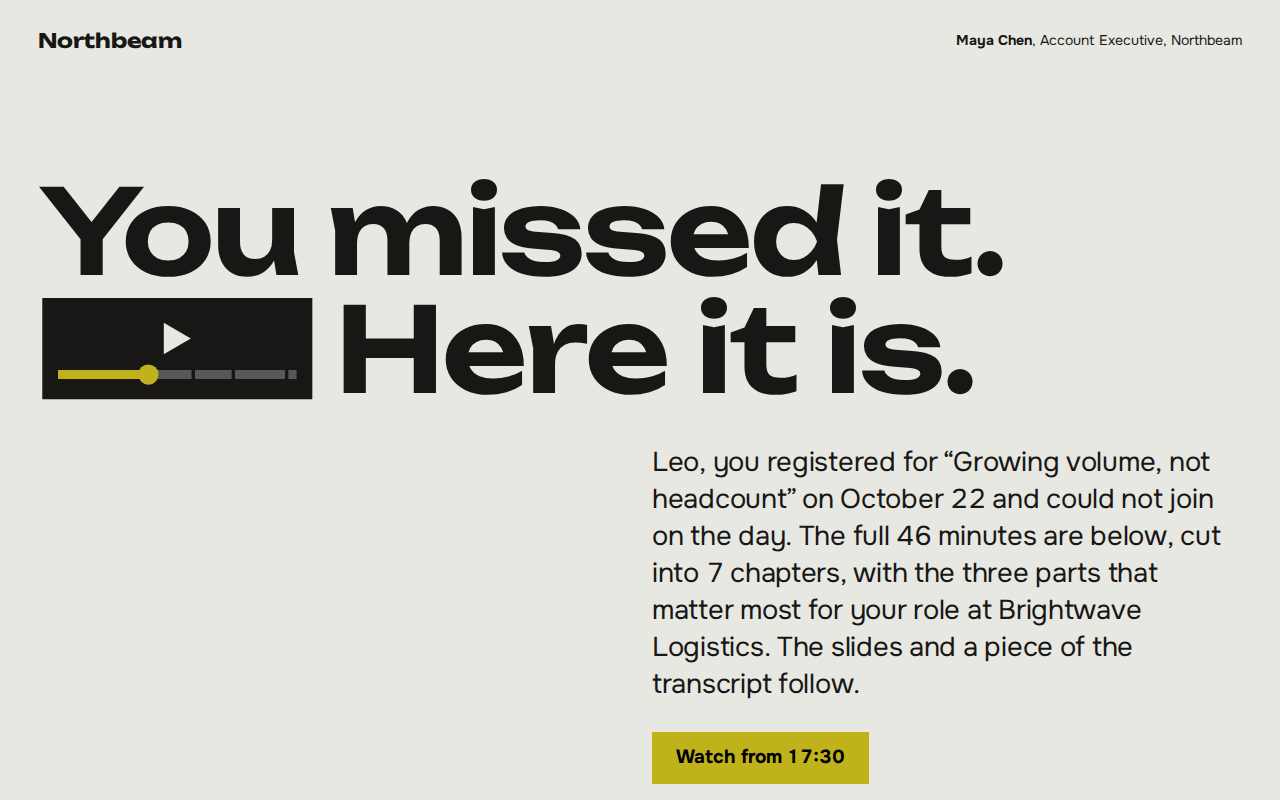
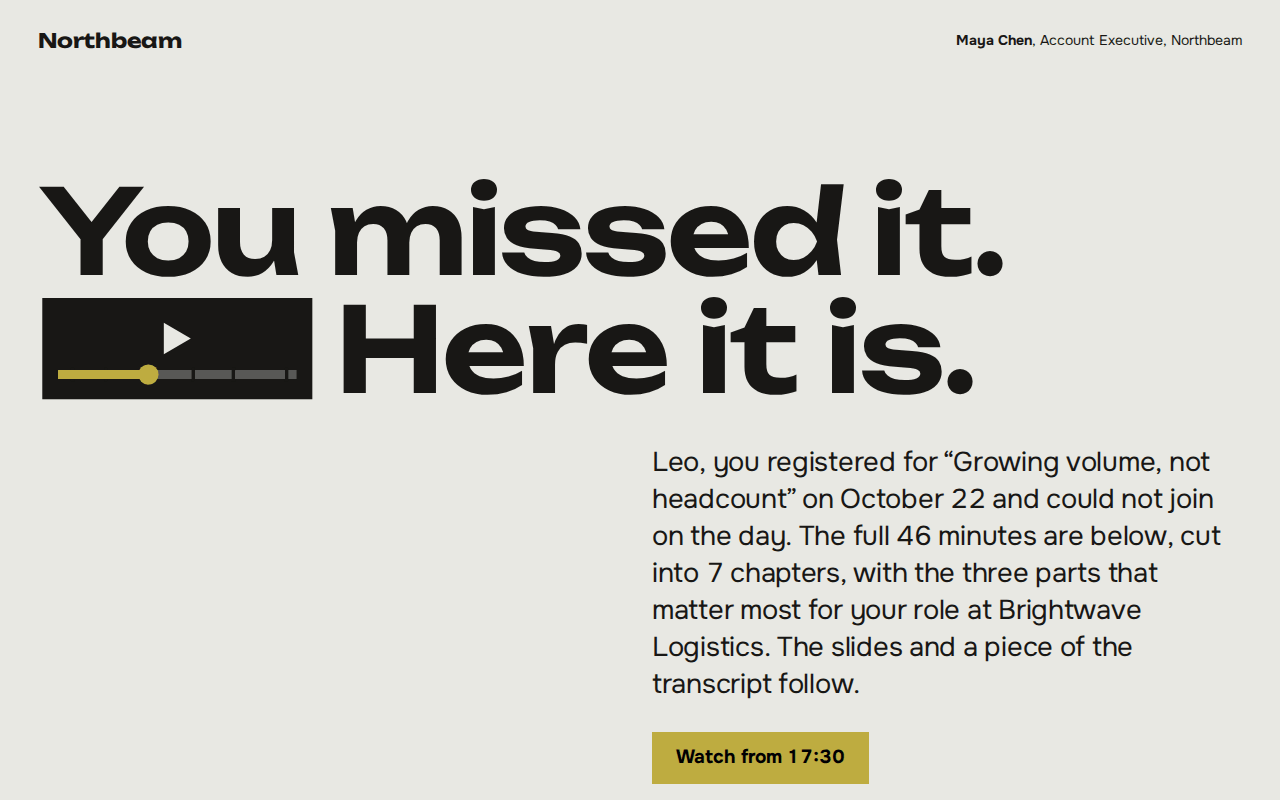
Library colour pass: event-recap, softer brass

Changed region(s): [[0.5, 0.9062, 0.6875, 1.0], [0.0312, 0.4375, 0.125, 0.5]]

diff --git a/starters/event-recap/preview/brightwave.html b/starters/event-recap/preview/brightwave.html
@@ -9,7 +9,7 @@
 <link rel="stylesheet" href="https://fonts.googleapis.com/css2?family=Onest:wght@400;700&display=swap">
 <style>
 :root{
-  --brand-primary:#bfb21a;
+  --brand-primary:#beac40;
   --brand-secondary:#181715;
   --brand-heading-font:'Unbounded';
   --brand-body-font:'Onest';
